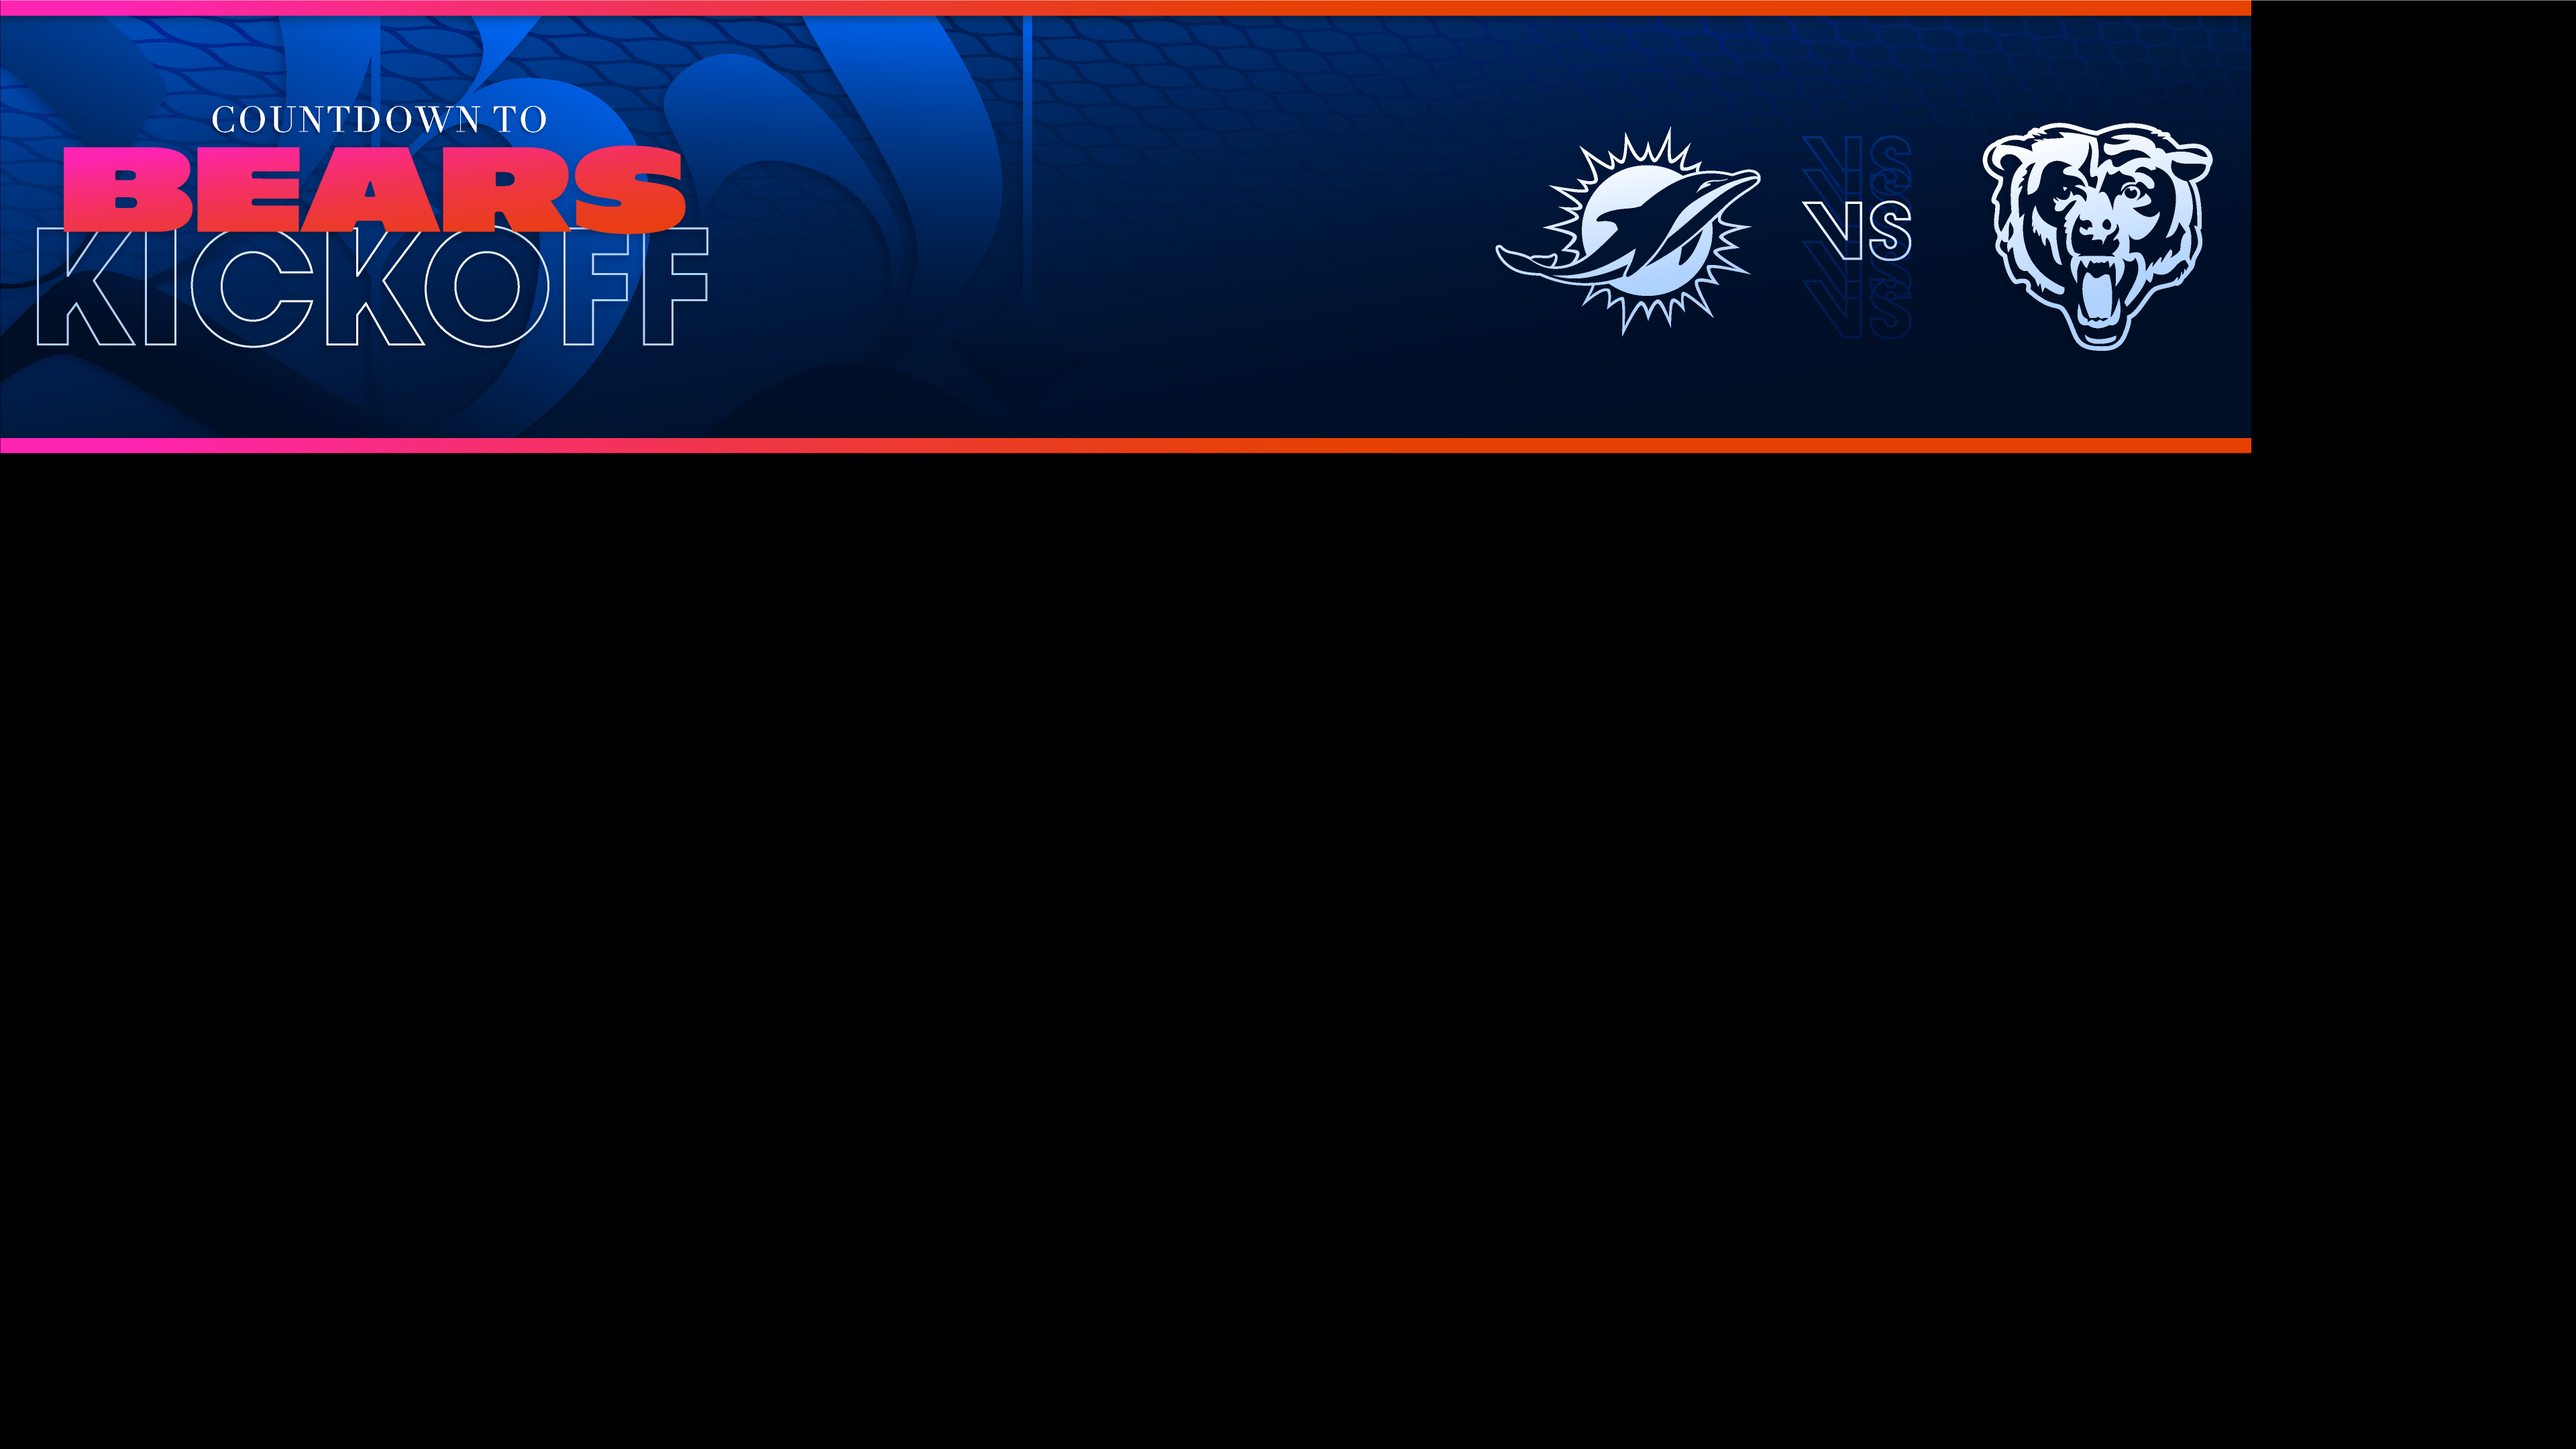
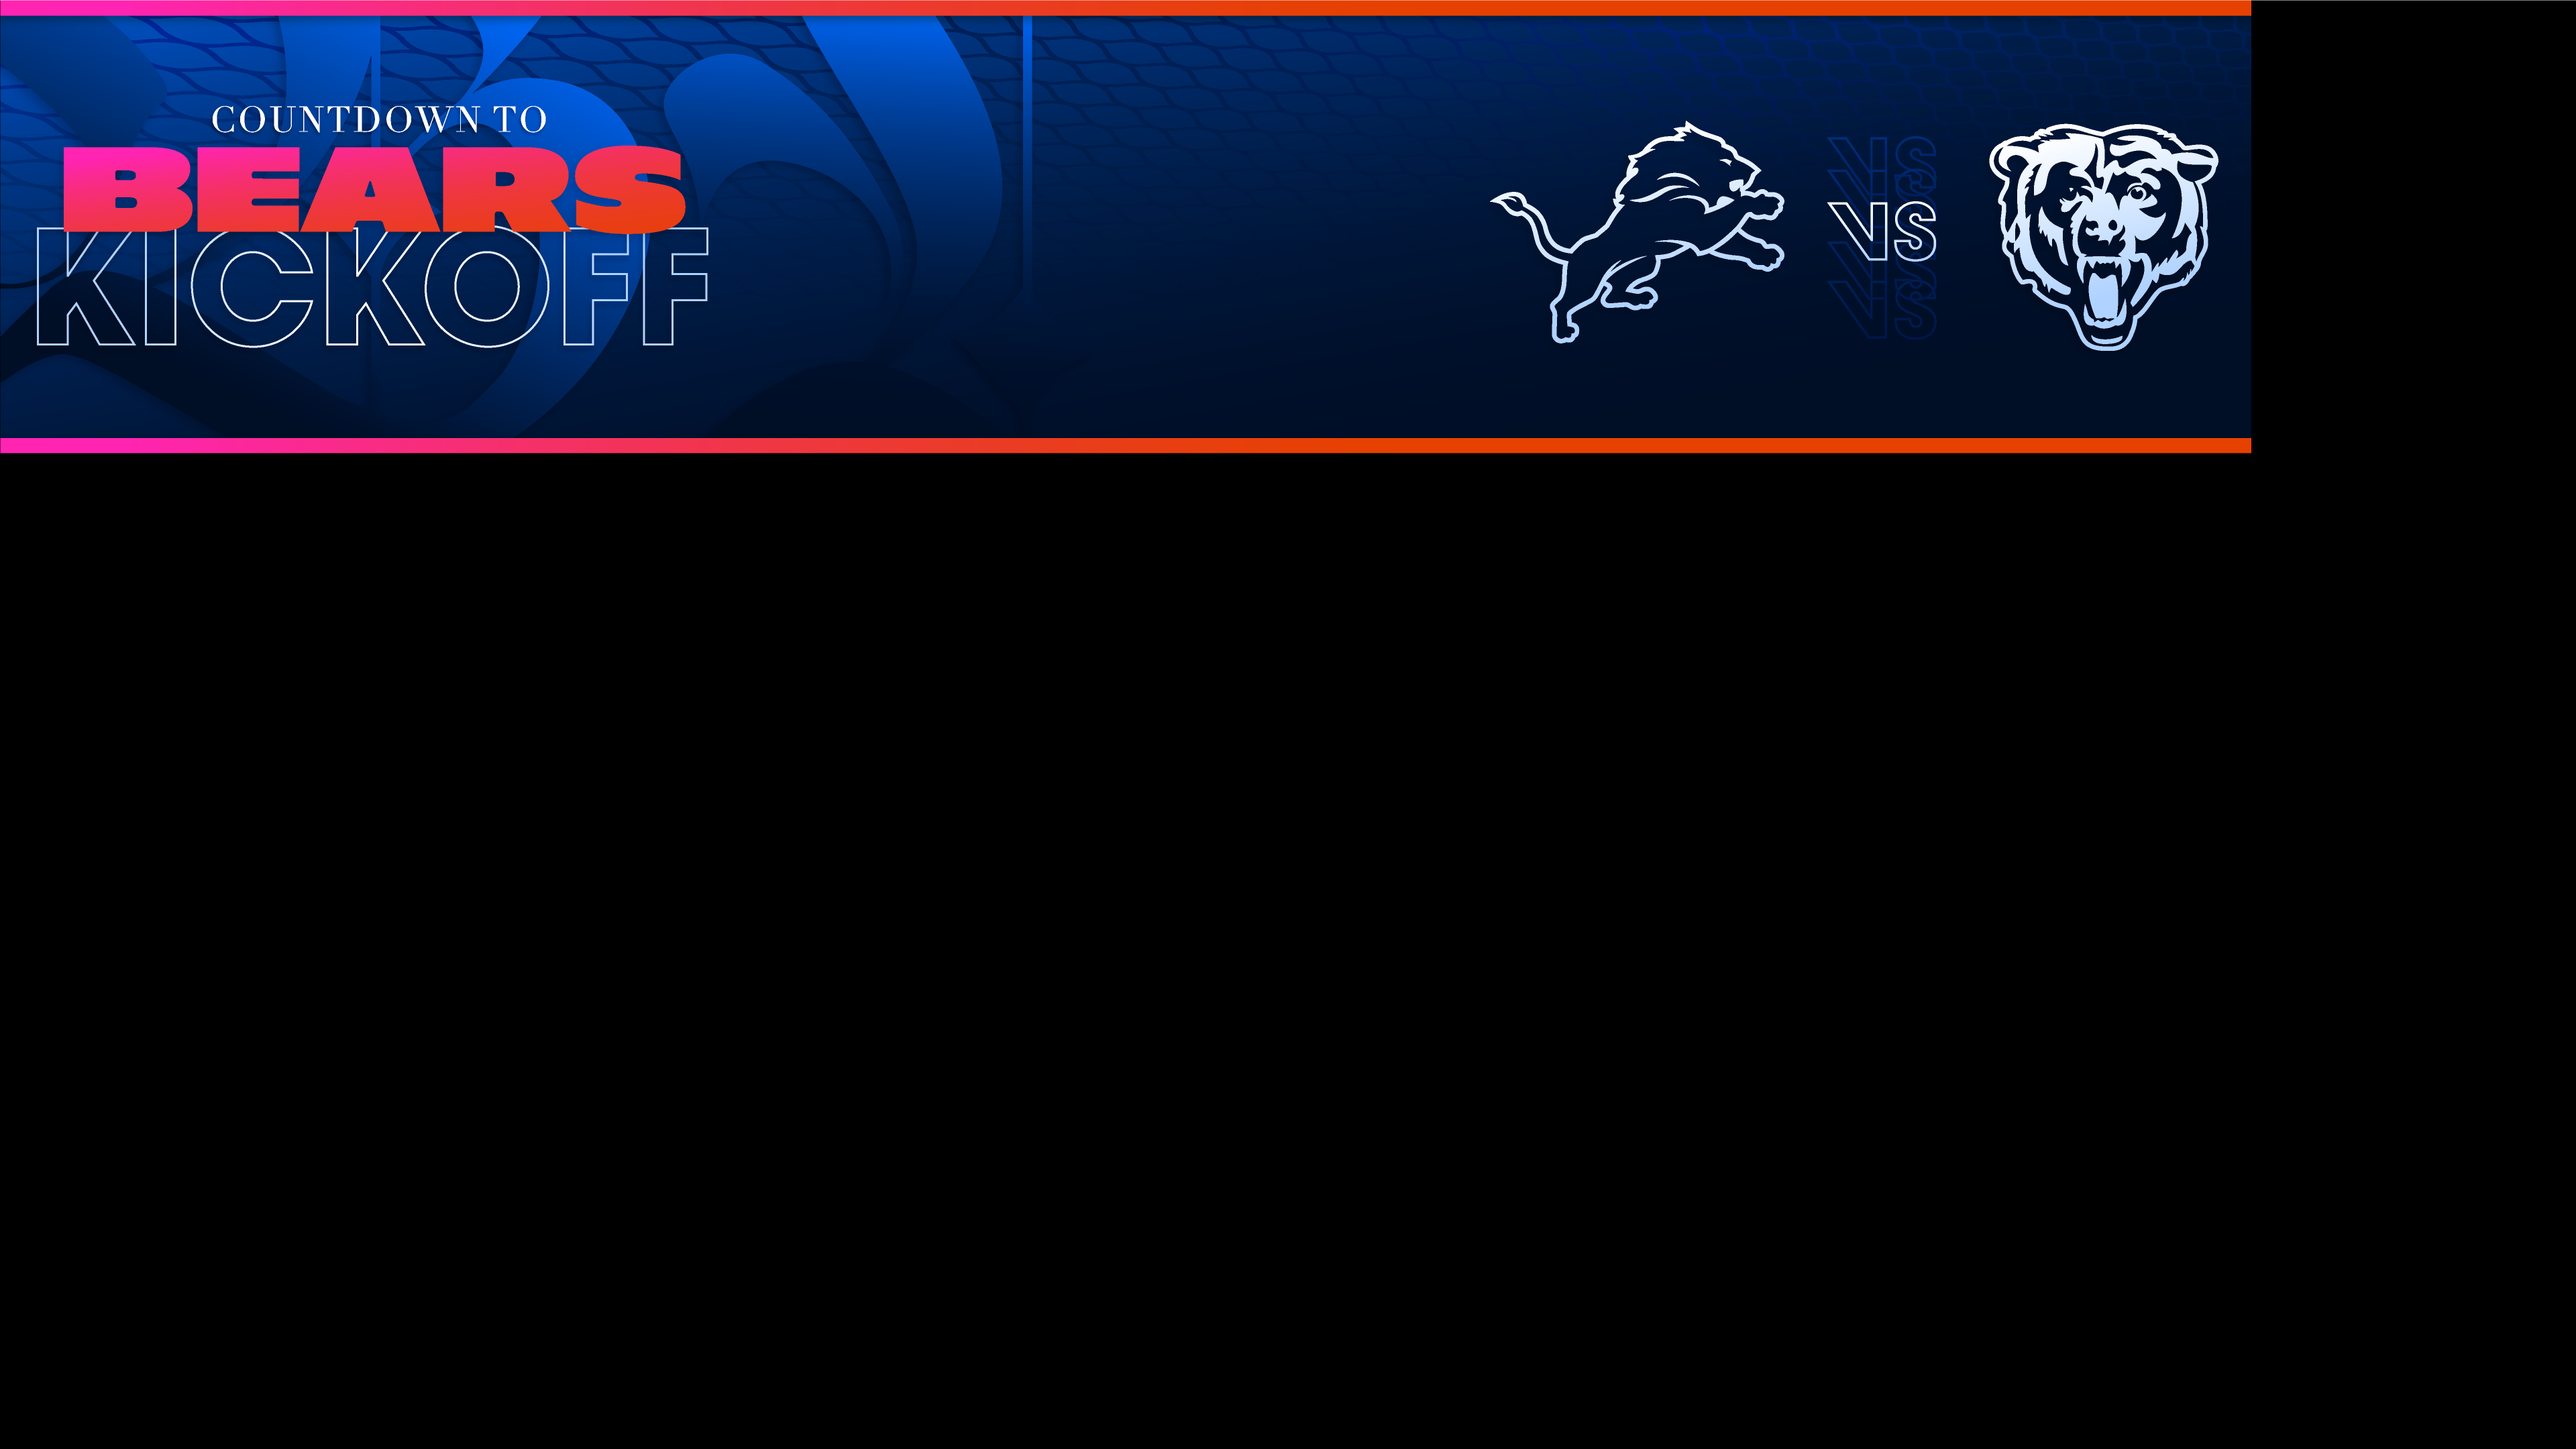
DET Game

Changed region(s): [[0.5625, 0.0931, 0.875, 0.2481]]

diff --git a/CurrentWeek/Horizontal/script/script.js b/CurrentWeek/Horizontal/script/script.js
@@ -68,9 +68,9 @@ $(document).ready(function(){
 			return futureFormattedDate
 		}
 		//USE 24HR MILITARY TIME
-		//MIA
+		//DET
 		$("#countdown").countdown({
-			date: "6 November 2022 12:00:00",
+			date: "13 November 2022 12:00:00",
 			format: "on"
 		});
 	});
